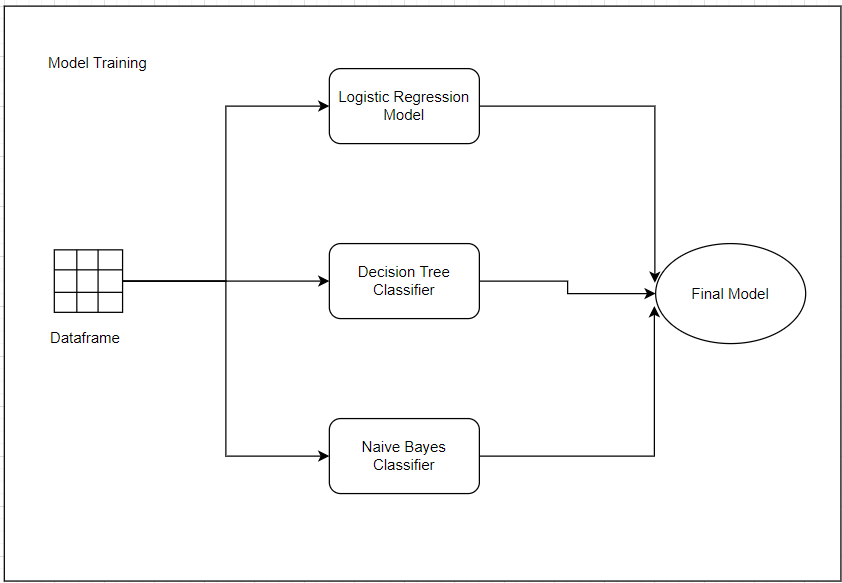
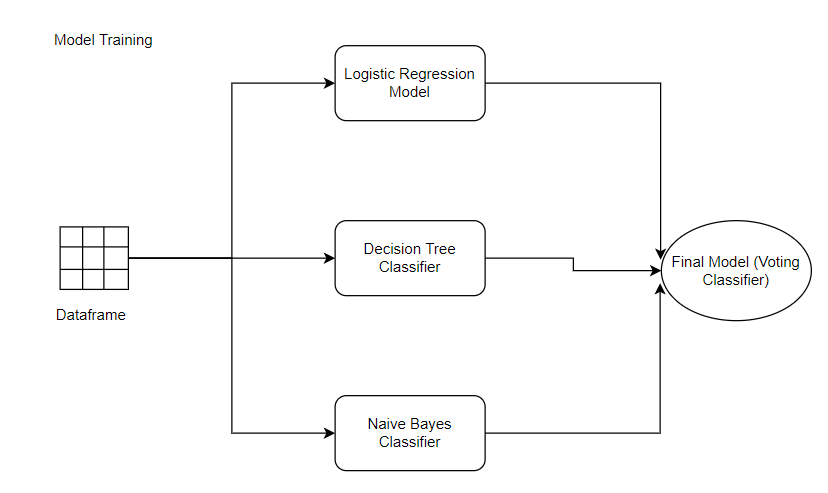
readme

diff --git a/README.md b/README.md
@@ -13,11 +13,12 @@
 ![sc6](https://github.com/parthsujalshah/Employee-Turnover/blob/main/images/Screenshot_116.png) -->
 
 ### INTRODUCTION
-Arresting of criminals not only depend upon the criminal, but also depend upon other factors which influence the allotments of the police force. This application helps the police department by predicting wether the criminal will be arrested or not, based on the previous experience, considering certain circumstances.
+Arresting of criminals not only depend upon the criminal, but also depend upon other factors which influence the allotments of the police force. This application helps the police department by predicting wether the criminals of the crime in a particular area, will be arrested or not, based on the previous experience, considering certain circumstances.
 
 ### FLOW CHART OF METHODOLOGY
 ![Methodology](https://github.com/parthsujalshah/Arrest-Predictor/blob/main/images/flow.png)
 ![Methodology_Model_Training](https://github.com/parthsujalshah/Arrest-Predictor/blob/main/images/model_training.png)
+![Methodology_Model_Pred](https://github.com/parthsujalshah/Arrest-Predictor/blob/main/images/model_pred.png)
 
 ### USING THE APPLICATION
 - The user fills a form displayed on the screen.
@@ -50,7 +51,7 @@ A CSV file having the following columns:
 - Longitude
 - Location
 
-### PREPROCESSING
+### DATA CLEANING
 - Dropping Null value rows
 - Keeping the first of all the duplicate entries
 - Creating separate columns for the day of the week and the month
@@ -67,6 +68,16 @@ GridSearchCV is used to optimize the Hyperparameters.
 
 ### Model Generation
 DecisionTreeClassifier, Logistic Regression and Gaussian Naive Bayes are used
+
+### Working
+1. The data arrives in the backend from frontend.
+2. The data is fed into 3 models for prediction:
+    a. Logistic Regression Model
+    b. Decision Tree Classifier
+    c. Gaussian Naive Bayes
+3. The output from models will be 0 or 1
+4. The majority of the output is considered by Voting Classifier
+5. This output is sent to frontend
 
 ### ACCURACY
 ![Accuracy](https://github.com/parthsujalshah/Arrest-Predictor/blob/main/images/accuracy.png)
